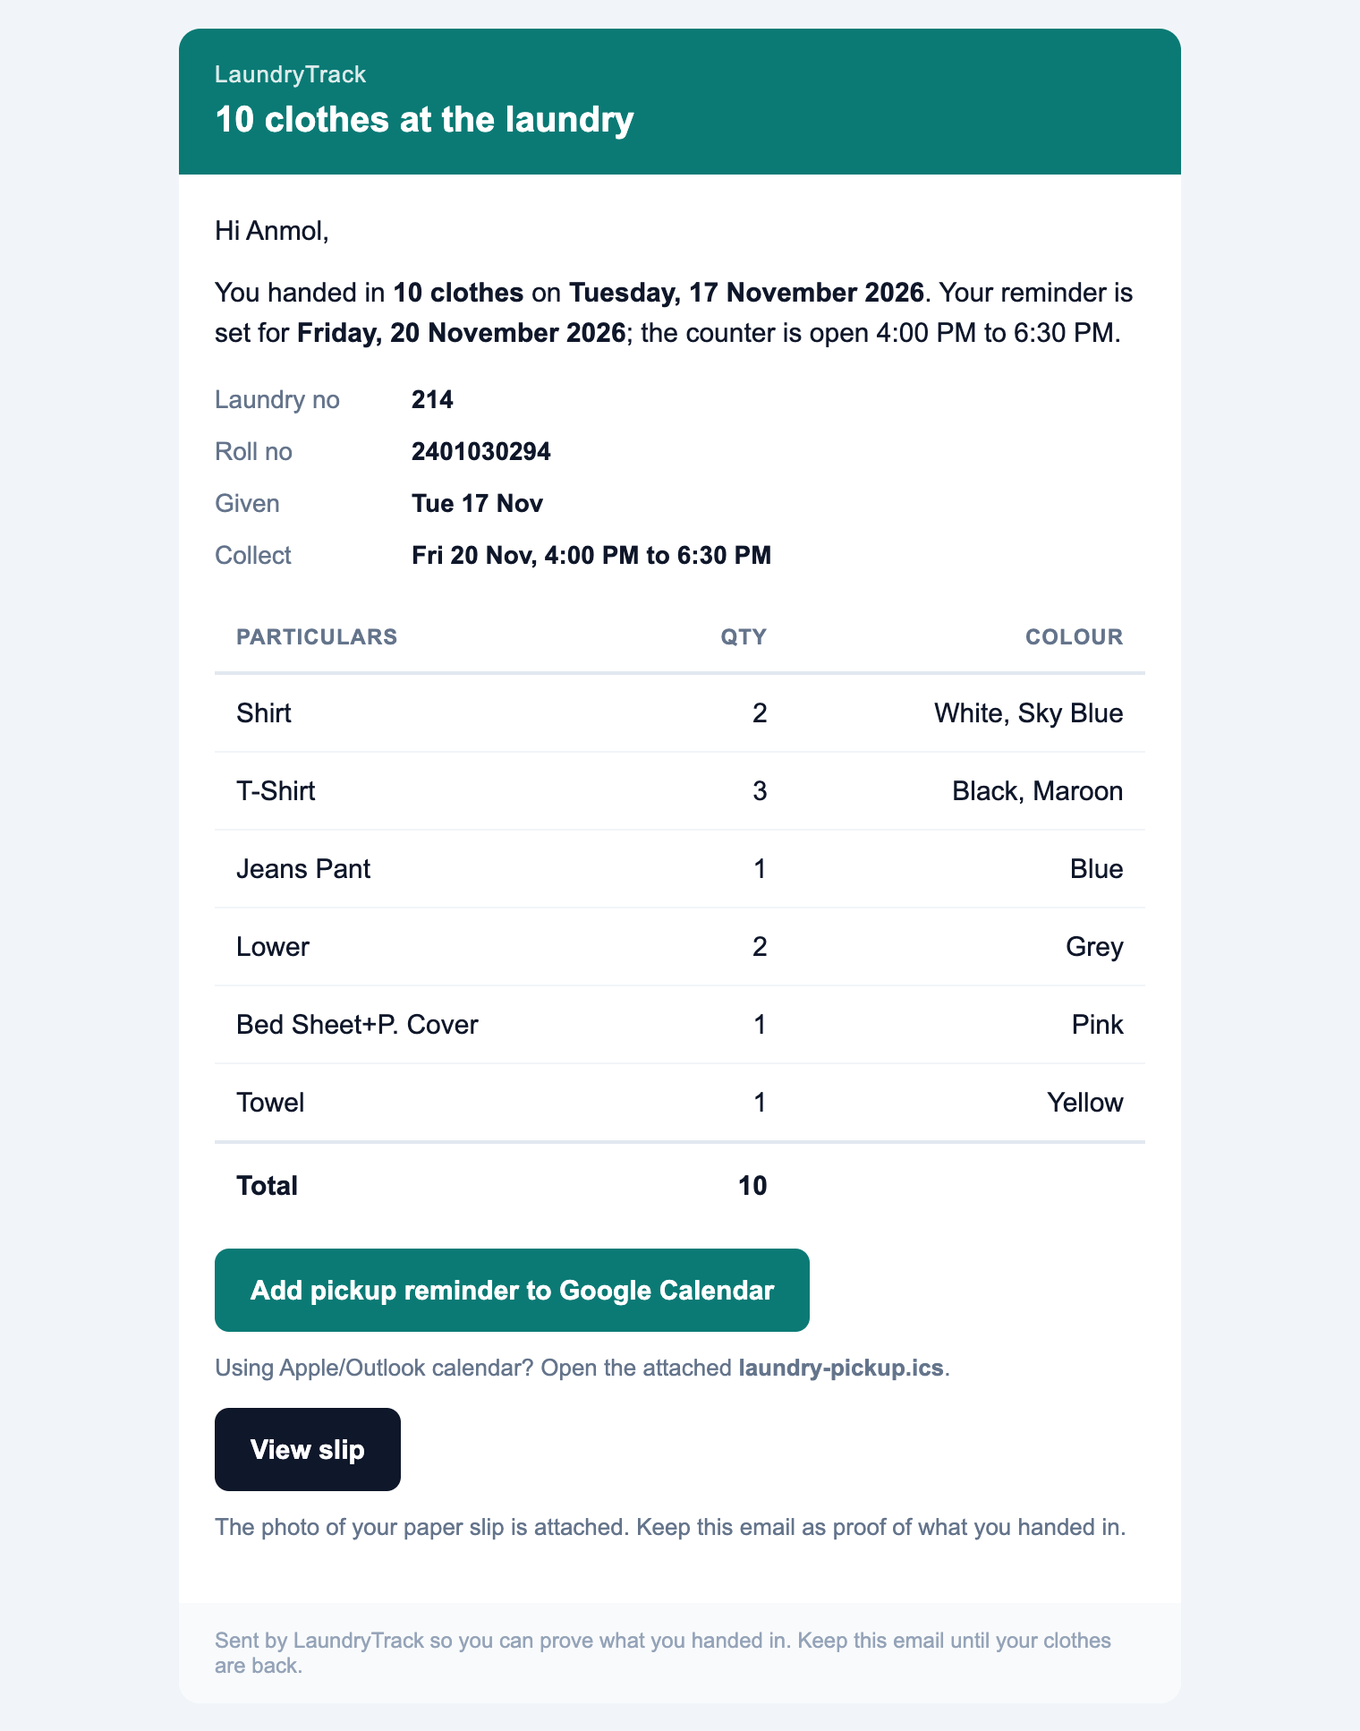
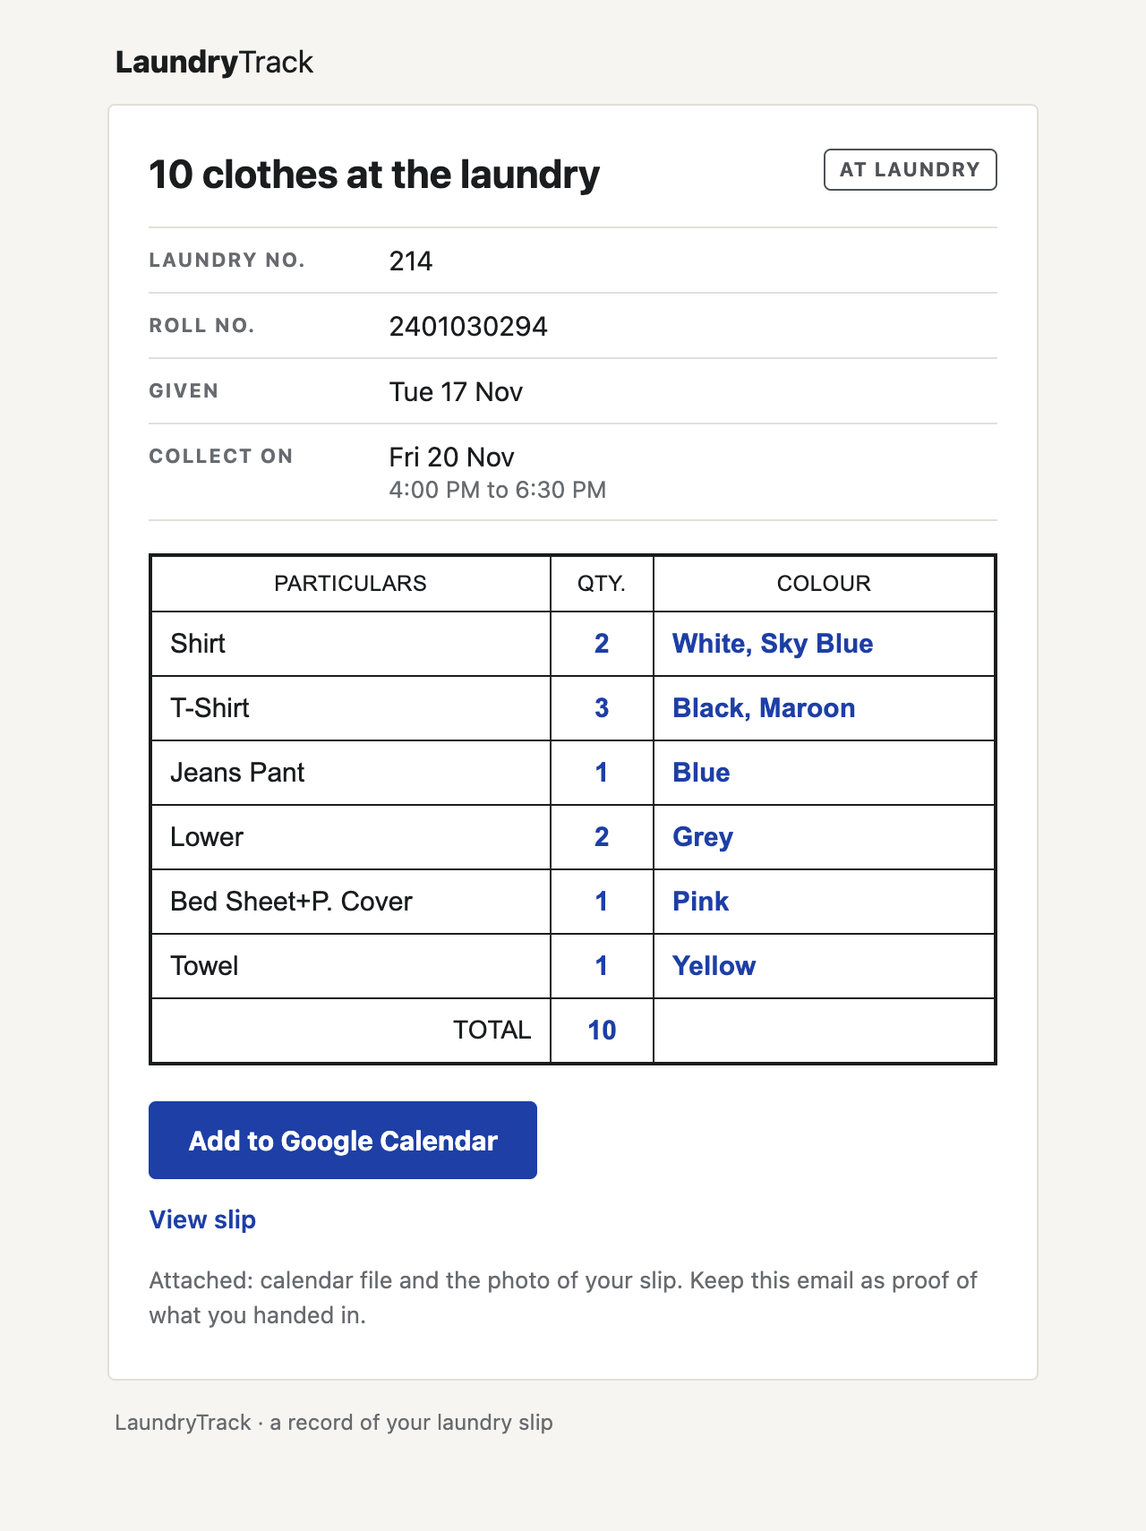
Restyle the emails to match the app
Confirmation, reminder and collection emails now use the app's look: paper
background, text wordmark, uppercase labels, status stamps, the items ruled
like the paper slip, and one ink-blue button. README email screenshot retaken.

Claude-Session: https://claude.ai/code/session_01DUe6Kz1d8co75pbW85g9sT

diff --git a/laundry/services/mailer.py b/laundry/services/mailer.py
@@ -1,6 +1,9 @@
 """Emails for LaundryTrack. Every public function returns (ok, message) and never raises.
 
 HTML is built in Python with inline styles + tables only (Gmail strips <style>).
+The look follows the web app: paper background, text wordmark, small uppercase
+labels, status as a bordered "stamp", the items laid out like the paper slip,
+and one ink-blue button.
 """
 from __future__ import annotations
 
@@ -13,7 +16,7 @@ from django.conf import settings
 from django.core.mail import EmailMultiAlternatives
 
 BRAND = "LaundryTrack"
-ACCENT = "#0b7a75"
+ACCENT = "#1d3fa6"
 TZ_NAME = "Asia/Kolkata"
 
 
@@ -144,67 +147,112 @@ def build_ics(slip):
 
 
 # ------------------------------------------------------------------ HTML pieces
+# Colours and sizes mirror laundry/static/laundry/app.css.
 
-def _button(href, label, color=ACCENT):
-    return (f'<table role="presentation" cellpadding="0" cellspacing="0" border="0" style="margin:8px 0;">'
-            f'<tr><td style="border-radius:8px;background:{color};">'
-            f'<a href="{escape(href)}" style="display:inline-block;padding:12px 20px;font-family:Arial,Helvetica,sans-serif;'
-            f'font-size:15px;font-weight:bold;color:#ffffff;text-decoration:none;border-radius:8px;">{escape(label)}</a>'
+PAPER, SURFACE, TEXT, TEXT_2, MUTED, LINE = "#f6f5f1", "#ffffff", "#1b1c1e", "#4f5256", "#676a6e", "#e1dfd8"
+GOOD, GOOD_SOFT, BAD, BAD_SOFT, ACCENT_SOFT = "#1d6b37", "#e8f3eb", "#b42318", "#fcedeb", "#eaeef9"
+FONT = "-apple-system,BlinkMacSystemFont,'Segoe UI',Roboto,'Helvetica Neue',Arial,sans-serif"
+LABEL = (f"font-family:{FONT};font-size:11px;font-weight:700;letter-spacing:.08em;"
+         f"text-transform:uppercase;color:{MUTED};")
+STAMPS = {"good": (GOOD, GOOD_SOFT), "bad": (BAD, BAD_SOFT), "accent": (ACCENT, ACCENT_SOFT), "plain": (TEXT_2, SURFACE)}
+
+
+def _stamp(text, kind="plain"):
+    color, background = STAMPS.get(kind, STAMPS["plain"])
+    return (f'<span style="display:inline-block;padding:2px 8px;border:1px solid {color};border-radius:4px;'
+            f'background:{background};color:{color};font-family:{FONT};font-size:11px;font-weight:700;'
+            f'letter-spacing:.06em;text-transform:uppercase;line-height:1.6;white-space:nowrap;">{escape(text)}</span>')
+
+
+def _button(href, label):
+    return (f'<table role="presentation" cellpadding="0" cellspacing="0" border="0" style="margin:20px 0 0;">'
+            f'<tr><td style="border-radius:4px;background:{ACCENT};">'
+            f'<a href="{escape(href)}" style="display:inline-block;padding:13px 22px;font-family:{FONT};'
+            f'font-size:15px;font-weight:700;color:#ffffff;text-decoration:none;border-radius:4px;">{escape(label)}</a>'
             f'</td></tr></table>')
 
 
-def _table(headers, rows, footer=None):
+def _link(href, label):
+    return (f'<p style="margin:14px 0 0;font-family:{FONT};font-size:14px;">'
+            f'<a href="{escape(href)}" style="color:{ACCENT};font-weight:600;text-decoration:none;">{escape(label)}</a></p>')
+
+
+def _rows(pairs):
+    """Label and value rows, like the summary on the slip page."""
+    out = ""
+    for label, value in pairs:
+        if value in (None, ""):
+            continue
+        out += (f'<tr><td style="padding:11px 16px 11px 0;border-top:1px solid {LINE};width:118px;'
+                f'vertical-align:top;{LABEL}">{escape(label)}</td>'
+                f'<td style="padding:9px 0;border-top:1px solid {LINE};font-family:{FONT};font-size:15px;'
+                f'color:{TEXT};vertical-align:top;">{value}</td></tr>')
+    return (f'<table role="presentation" width="100%" cellpadding="0" cellspacing="0" border="0" '
+            f'style="border-collapse:collapse;border-bottom:1px solid {LINE};">{out}</table>')
+
+
+def _slip_table(headers, rows, footer=None):
+    """The items, ruled like the paper slip. A row may be (cells, True) to mark it as short."""
+    cell = f"border:1px solid {TEXT};font-family:Arial,Helvetica,sans-serif;"
     th = "".join(
-        f'<th align="{"left" if i == 0 else "right"}" style="padding:10px 12px;font-size:12px;text-transform:uppercase;'
-        f'letter-spacing:.5px;color:#64748b;border-bottom:2px solid #e2e8f0;">{escape(h)}</th>'
-        for i, h in enumerate(headers))
+        f'<th align="center" style="{cell}padding:8px 6px;font-size:12px;font-weight:400;'
+        f'letter-spacing:.02em;color:{TEXT};">{escape(str(h))}</th>' for h in headers)
     body = ""
-    for r in rows:
-        cells, style = r if isinstance(r, tuple) else (r, "")
-        body += "<tr>" + "".join(
-            f'<td align="{"left" if i == 0 else "right"}" style="padding:10px 12px;font-size:15px;color:#0f172a;'
-            f'border-bottom:1px solid #f1f5f9;{style}">{escape(str(c))}</td>' for i, c in enumerate(cells)) + "</tr>"
+    for row in rows:
+        cells, short = row if isinstance(row, tuple) else (row, False)
+        ink = BAD if short else ACCENT
+        background = f"background:{BAD_SOFT};" if short else ""
+        tds = ""
+        for index, value in enumerate(cells):
+            if index == 0:
+                tds += (f'<td align="left" style="{cell}{background}padding:9px 10px;font-size:15px;'
+                        f'color:{BAD if short else TEXT};">{escape(str(value))}</td>')
+            else:
+                # Counts are centred like the QTY. column; written text (colours) reads from the left.
+                is_count = str(value).strip().isdigit() or str(value).strip() in ("", "-")
+                tds += (f'<td align="{"center" if is_count else "left"}" style="{cell}{background}'
+                        f'padding:9px {"6px" if is_count else "10px"};font-size:15px;'
+                        f'font-weight:600;color:{ink};">{escape(str(value))}</td>')
+        body += f"<tr>{tds}</tr>"
     foot = ""
     if footer:
-        foot = "<tr>" + "".join(
-            f'<td align="{"left" if i == 0 else "right"}" style="padding:12px;font-size:15px;font-weight:bold;'
-            f'color:#0f172a;border-top:2px solid #e2e8f0;">{escape(str(c))}</td>' for i, c in enumerate(footer)) + "</tr>"
+        tds = ""
+        for index, value in enumerate(footer):
+            if index == 0:
+                tds += (f'<td align="right" style="{cell}padding:9px 10px;font-size:14px;color:{TEXT};">'
+                        f'{escape(str(value))}</td>')
+            else:
+                tds += (f'<td align="center" style="{cell}padding:9px 6px;font-size:15px;font-weight:700;'
+                        f'color:{ACCENT};">{escape(str(value))}</td>')
+        foot = f"<tr>{tds}</tr>"
     return (f'<table role="presentation" width="100%" cellpadding="0" cellspacing="0" border="0" '
-            f'style="border-collapse:collapse;font-family:Arial,Helvetica,sans-serif;margin:12px 0;">'
+            f'style="border-collapse:collapse;border:2px solid {TEXT};margin:18px 0 0;background:{SURFACE};">'
             f'<tr>{th}</tr>{body}{foot}</table>')
 
 
-def _facts(pairs):
-    rows = "".join(
-        f'<tr><td style="padding:4px 0;font-size:14px;color:#64748b;width:110px;">{escape(k)}</td>'
-        f'<td style="padding:4px 0;font-size:14px;color:#0f172a;font-weight:bold;">{escape(str(v))}</td></tr>'
-        for k, v in pairs if v not in (None, ""))
-    return (f'<table role="presentation" cellpadding="0" cellspacing="0" border="0" '
-            f'style="font-family:Arial,Helvetica,sans-serif;margin:8px 0 4px;">{rows}</table>')
+def _note(text):
+    return f'<p style="margin:16px 0 0;font-family:{FONT};font-size:13px;line-height:1.5;color:{MUTED};">{text}</p>'
 
 
-def _wrap(heading, inner_html, banner_color=ACCENT, preheader=""):
+def _wrap(heading, inner_html, stamp="", preheader=""):
     return f"""<!doctype html><html><head><meta charset="utf-8"><meta name="viewport" content="width=device-width,initial-scale=1"></head>
-<body style="margin:0;padding:0;background:#f1f5f9;">
+<body style="margin:0;padding:0;background:{PAPER};">
 <div style="display:none;max-height:0;overflow:hidden;">{escape(preheader)}</div>
-<table role="presentation" width="100%" cellpadding="0" cellspacing="0" border="0" style="background:#f1f5f9;">
-<tr><td align="center" style="padding:16px 8px;">
-<table role="presentation" width="100%" cellpadding="0" cellspacing="0" border="0" style="max-width:560px;background:#ffffff;border-radius:12px;overflow:hidden;">
-<tr><td style="background:{banner_color};padding:18px 20px;font-family:Arial,Helvetica,sans-serif;color:#ffffff;">
-<div style="font-size:13px;opacity:.85;letter-spacing:.5px;">{BRAND}</div>
-<div style="font-size:20px;font-weight:bold;margin-top:4px;line-height:1.3;">{escape(heading)}</div>
-</td></tr>
-<tr><td style="padding:20px;font-family:Arial,Helvetica,sans-serif;font-size:15px;line-height:1.5;color:#0f172a;">
+<table role="presentation" width="100%" cellpadding="0" cellspacing="0" border="0" style="background:{PAPER};">
+<tr><td align="center" style="padding:24px 12px 32px;">
+<table role="presentation" width="100%" cellpadding="0" cellspacing="0" border="0" style="max-width:520px;">
+<tr><td style="padding:0 4px 14px;font-family:{FONT};font-size:17px;color:{TEXT};"><span style="font-weight:800;">Laundry</span>Track</td></tr>
+<tr><td style="background:{SURFACE};border:1px solid {LINE};border-radius:4px;padding:24px 22px 26px;">
+<table role="presentation" width="100%" cellpadding="0" cellspacing="0" border="0"><tr>
+<td style="font-family:{FONT};font-size:22px;font-weight:700;line-height:1.25;color:{TEXT};padding:0 0 16px;">{escape(heading)}</td>
+<td align="right" style="padding:0 0 16px;vertical-align:top;">{stamp}</td>
+</tr></table>
 {inner_html}
 </td></tr>
-<tr><td style="padding:14px 20px;background:#f8fafc;font-family:Arial,Helvetica,sans-serif;font-size:12px;color:#94a3b8;">
-Sent by {BRAND} so you can prove what you handed in. Keep this email until your clothes are back.
+<tr><td style="padding:14px 4px 0;font-family:{FONT};font-size:12px;line-height:1.5;color:{MUTED};">
+<a href="{_site_url()}" style="color:{MUTED};text-decoration:none;">{BRAND}</a> · a record of your laundry slip
 </td></tr>
 </table></td></tr></table></body></html>"""
-
-
-def _p(text):
-    return f'<p style="margin:0 0 12px;">{text}</p>'
 
 
 def _send(slip, subject, text, html, attachments=()):
@@ -227,6 +275,10 @@ def _mark(slip, field):
     slip.save(update_fields=[field])
 
 
+def _slip_facts(slip):
+    return [("Laundry no.", escape(slip.slip_no or "-")), ("Roll no.", escape(getattr(slip, "enrollment_no", "") or "-"))]
+
+
 # ------------------------------------------------------------------ public API
 
 def send_drop_confirmation(slip, photo=None):
@@ -234,36 +286,35 @@ def send_drop_confirmation(slip, photo=None):
     try:
         items = _items(slip)
         n = slip.total_items
-        pickup_time = _hours_label()
+        hours = _hours_label()
         subject = (f"Laundry submitted: {_plural(n)} on {_day(slip.drop_date)}, "
                    f"pick up {_day(slip.pickup_date)}")
         url, cal = _slip_url(slip), gcal_link(slip)
         name = _greeting_name(slip)
 
         text = (f"Hi {name},\n\nYou submitted {_plural(n)} to the laundry on {_long_day(slip.drop_date)}.\n"
-                f"Reminder set for {_long_day(slip.pickup_date)}. The counter is open {pickup_time}.\n\n"
+                f"Reminder set for {_long_day(slip.pickup_date)}. The counter is open {hours}.\n\n"
                 f"{_items_text(items)}\nTotal: {n}\n\n"
                 f"Laundry no: {slip.slip_no or '-'}\nRoll no: {getattr(slip, 'enrollment_no', '') or '-'}\n\n"
                 f"View slip: {url}\nAdd to Google Calendar: {cal}\n"
                 f"A calendar file (laundry-pickup.ics) is attached.\n"
                 + ("The photo of your slip is attached too. Keep this email as proof of what you handed in.\n" if photo else ""))
+        attached = "Attached: calendar file" + (" and the photo of your slip." if photo else ".")
         inner = (
-            _p(f"Hi {escape(name)},")
-            + _p(f"You handed in <b>{_plural(n)}</b> on <b>{escape(_long_day(slip.drop_date))}</b>. "
-                 f"Your reminder is set for <b>{escape(_long_day(slip.pickup_date))}</b>; "
-                 f"the counter is open {escape(pickup_time)}.")
-            + _facts([("Laundry no", slip.slip_no or "-"), ("Roll no", getattr(slip, "enrollment_no", "") or "-"),
-                      ("Given", _day(slip.drop_date)), ("Collect", f"{_day(slip.pickup_date)}, {pickup_time}")])
-            + _table(["Particulars", "Qty", "Colour"], [[i.name, i.quantity, getattr(i, "colour", "") or ""] for i in items], footer=["Total", n, ""])
-            + _button(cal, "Add pickup reminder to Google Calendar")
-            + _p('<span style="font-size:13px;color:#64748b;">Using Apple/Outlook calendar? '
-                 'Open the attached <b>laundry-pickup.ics</b>.</span>')
-            + _button(url, "View slip", color="#0f172a")
-            + (_p('<span style="font-size:13px;color:#64748b;">The photo of your paper slip is attached. '
-                  'Keep this email as proof of what you handed in.</span>') if photo else "")
+            _rows(_slip_facts(slip) + [
+                ("Given", escape(_day(slip.drop_date))),
+                ("Collect on", f"{escape(_day(slip.pickup_date))}"
+                               f'<br><span style="font-size:13px;color:{MUTED};">{escape(hours)}</span>'),
+            ])
+            + _slip_table(["PARTICULARS", "QTY.", "COLOUR"],
+                          [[i.name, i.quantity, getattr(i, "colour", "") or ""] for i in items],
+                          footer=["TOTAL", n, ""])
+            + _button(cal, "Add to Google Calendar")
+            + _link(url, "View slip")
+            + _note(attached + " Keep this email as proof of what you handed in.")
         )
-        html = _wrap(f"{_plural(n).capitalize()} at the laundry", inner,
-                     preheader=f"Collect from {_day(slip.pickup_date)}")
+        html = _wrap(f"{_plural(n).capitalize()} at the laundry", inner, stamp=_stamp("At laundry"),
+                     preheader=f"Collect from {_day(slip.pickup_date)}, {hours}")
         attachments = [("laundry-pickup.ics", build_ics(slip), "text/calendar; method=PUBLISH; charset=utf-8")]
         if photo:
             attachments.append((f"laundry-slip-{slip.slip_no or slip.pk}.jpg", photo, "image/jpeg"))
@@ -288,15 +339,18 @@ def send_pickup_reminder(slip):
                 + "\n".join(f"[ ] {i.name} x {i.quantity}" for i in items)
                 + f"\nTotal: {n}\n\nSlip no: {slip.slip_no or '-'}\nTick them off here: {url}\n")
         inner = (
-            _p(f"Hi {escape(name)},")
-            + _p(f"This is the reminder you set for the laundry you gave on <b>{escape(_long_day(slip.drop_date))}</b>. "
-                 f"The counter is open <b>{escape(hours)}</b> today. Count these before you leave:")
-            + _table(["Item", "Qty", "Got it"], [[i.name, i.quantity, "\u2610"] for i in items],
-                     footer=["Total", n, ""])
-            + _facts([("Laundry no", slip.slip_no or "-"), ("Roll no", getattr(slip, "enrollment_no", "") or "-")])
-            + _button(url, "Tick off returned clothes")
+            _rows(_slip_facts(slip) + [
+                ("Given", escape(_day(slip.drop_date))),
+                ("Counter open", escape(hours)),
+            ])
+            + _slip_table(["PARTICULARS", "QTY.", "COLOUR"],
+                          [[i.name, i.quantity, getattr(i, "colour", "") or ""] for i in items],
+                          footer=["TOTAL", n, ""])
+            + _button(url, "Count what came back")
+            + _note("Count each item at the counter before you leave.")
         )
-        html = _wrap(f"Pick up today: {_plural(n)}", inner, preheader="Count them at the counter")
+        html = _wrap(f"Collect {_plural(n)} today", inner, stamp=_stamp("Collect today", "accent"),
+                     preheader=f"Counter open {hours}")
         ok, message = _send(slip, subject, text, html)
         if ok:
             _mark(slip, "reminder_sent")
@@ -311,14 +365,13 @@ def send_collection_summary(slip):
         n, back, missing = slip.total_items, slip.total_returned, slip.missing_count
         url = _slip_url(slip)
         name = _greeting_name(slip)
+        facts = _slip_facts(slip) + [("Given", escape(_day(slip.drop_date)))]
         if missing > 0:
             subject = f"Laundry mismatch: {missing} item{'s' if missing != 1 else ''} missing"
-            heading = f"{missing} item{'s' if missing != 1 else ''} missing"
             rows = []
             for i in items:
                 ret = i.returned_quantity if i.returned_quantity is not None else "-"
-                style = "color:#b91c1c;font-weight:bold;background:#fef2f2;" if i.missing else ""
-                rows.append(([i.name, i.quantity, ret, i.missing or ""], style))
+                rows.append(([i.name, i.quantity, ret, i.missing or ""], bool(i.missing)))
             text = (f"Hi {name},\n\nYou gave {n} and got back {back}. {missing} missing.\n\n"
                     + "\n".join(f"- {i.name}: given {i.quantity}, returned "
                                 f"{i.returned_quantity if i.returned_quantity is not None else '-'}, missing {i.missing}"
@@ -326,29 +379,25 @@ def send_collection_summary(slip):
                     + f"\n\nSlip no: {slip.slip_no or '-'}, given {_long_day(slip.drop_date)}, "
                       f"due {_long_day(slip.pickup_date)}.\nShow this email to the laundry staff. Slip: {url}\n")
             inner = (
-                _p(f"Hi {escape(name)},")
-                + _p(f"You handed in <b>{n}</b> and got back <b>{back}</b>. "
-                     f'<span style="color:#b91c1c;font-weight:bold;">{missing} missing.</span> '
-                     f"Show this email to the laundry staff as proof.")
-                + _facts([("Laundry no", slip.slip_no or "-"), ("Roll no", getattr(slip, "enrollment_no", "") or "-"),
-                          ("Given", _long_day(slip.drop_date)), ("Due", _long_day(slip.pickup_date))])
-                + _table(["Item", "Given", "Returned", "Missing"], rows, footer=["Total", n, back, missing])
+                _rows(facts + [("Returned", f"{back} of {n}")])
+                + _slip_table(["PARTICULARS", "QTY.", "RET.", "MISS."], rows, footer=["TOTAL", n, back, missing])
                 + _button(url, "Open slip")
+                + _note("Show this email and the slip photo from your confirmation email at the laundry counter.")
             )
-            html = _wrap(heading, inner, banner_color="#b91c1c", preheader=f"Given {n}, returned {back}")
+            html = _wrap(f"Given {n}, returned {back}", inner,
+                         stamp=_stamp(f"{missing} missing", "bad"), preheader=f"{missing} missing")
         else:
             subject = f"All {_plural(n)} collected"
             text = (f"Hi {name},\n\nAll {_plural(n)} from {_long_day(slip.drop_date)} are back.\n\n"
                     f"{_items_text(items)}\nTotal: {n}\n\nSlip: {url}\n")
             inner = (
-                _p(f"Hi {escape(name)},")
-                + _p(f"All <b>{_plural(n)}</b> from {escape(_long_day(slip.drop_date))} are back. Nothing missing.")
-                + _table(["Item", "Given", "Returned"],
-                         [[i.name, i.quantity, i.returned_quantity if i.returned_quantity is not None else i.quantity]
-                          for i in items], footer=["Total", n, back or n])
-                + _button(url, "View slip", color="#0f172a")
+                _rows(facts)
+                + _slip_table(["PARTICULARS", "QTY.", "RET."],
+                              [[i.name, i.quantity, i.returned_quantity if i.returned_quantity is not None else i.quantity]
+                               for i in items], footer=["TOTAL", n, back or n])
+                + _link(url, "View slip")
             )
-            html = _wrap(f"All {_plural(n)} collected", inner, banner_color="#15803d")
+            html = _wrap(f"All {_plural(n)} collected", inner, stamp=_stamp("Collected", "good"))
         return _send(slip, subject, text, html)
     except Exception as e:
         return False, f"{type(e).__name__}: {e}"

diff --git a/README.md b/README.md
@@ -81,7 +81,7 @@ The page also shows where the email will go: the roll number on the slip at `@ma
 ### 4. The confirmation email
 
 <p align="center">
-  <img src="docs/images/email.png" width="100%" alt="The confirmation email, headed '10 clothes at the laundry': Hi Anmol, you handed in 10 clothes on Tuesday, 17 November 2026, your reminder is set for Friday, 20 November 2026, the counter is open 4:00 PM to 6:30 PM; laundry no 214, roll no 2401030294, given Tue 17 Nov, collect Fri 20 Nov; a table of particulars, quantity and colour with a total of 10; an Add pickup reminder to Google Calendar button, a note about the attached laundry-pickup.ics, a View slip button, and a line saying the photo of the paper slip is attached">
+  <img src="docs/images/email.png" width="100%" alt="The confirmation email, in the same style as the app: the LaundryTrack wordmark, the heading '10 clothes at the laundry' with an AT LAUNDRY stamp, rows for Laundry no. 214, Roll no. 2401030294, Given Tue 17 Nov and Collect on Fri 20 Nov, 4:00 PM to 6:30 PM, then the items ruled like the paper slip (particulars, quantity and colour, total 10), an Add to Google Calendar button, a View slip link, and a note that the calendar file and the photo of the slip are attached">
 </p>
 <p align="center"><sub>The email as written by the local run. Attached to it: <code>laundry-pickup.ics</code> and <code>laundry-slip-214.jpg</code>, the slip photo.</sub></p>
 
